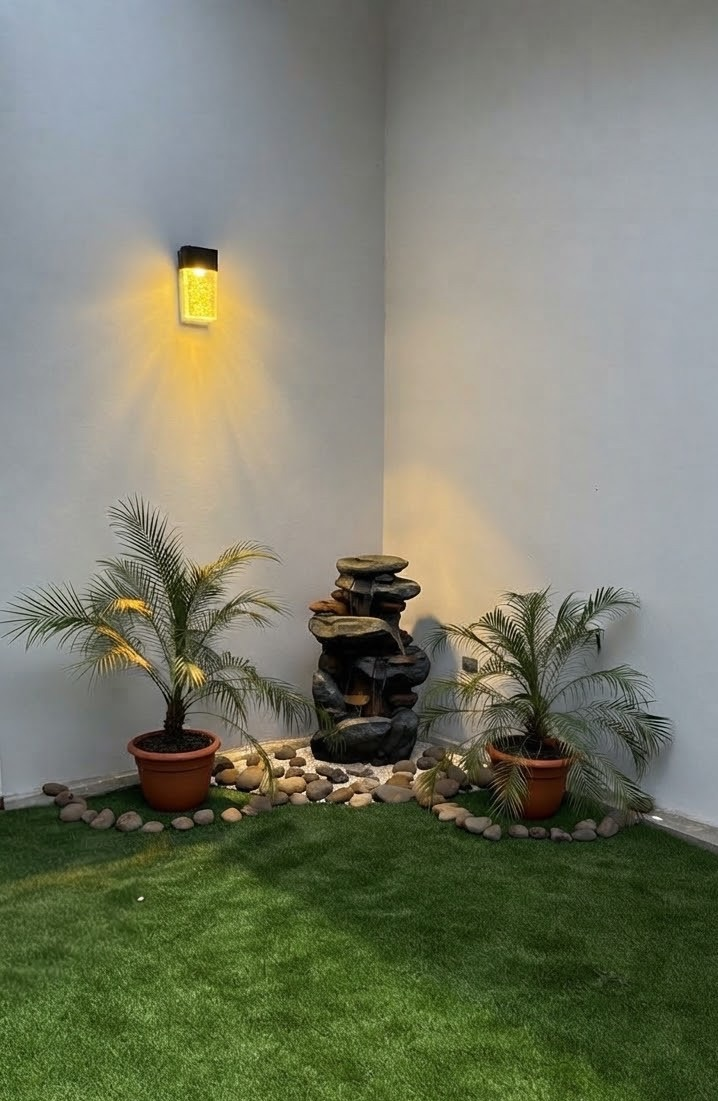
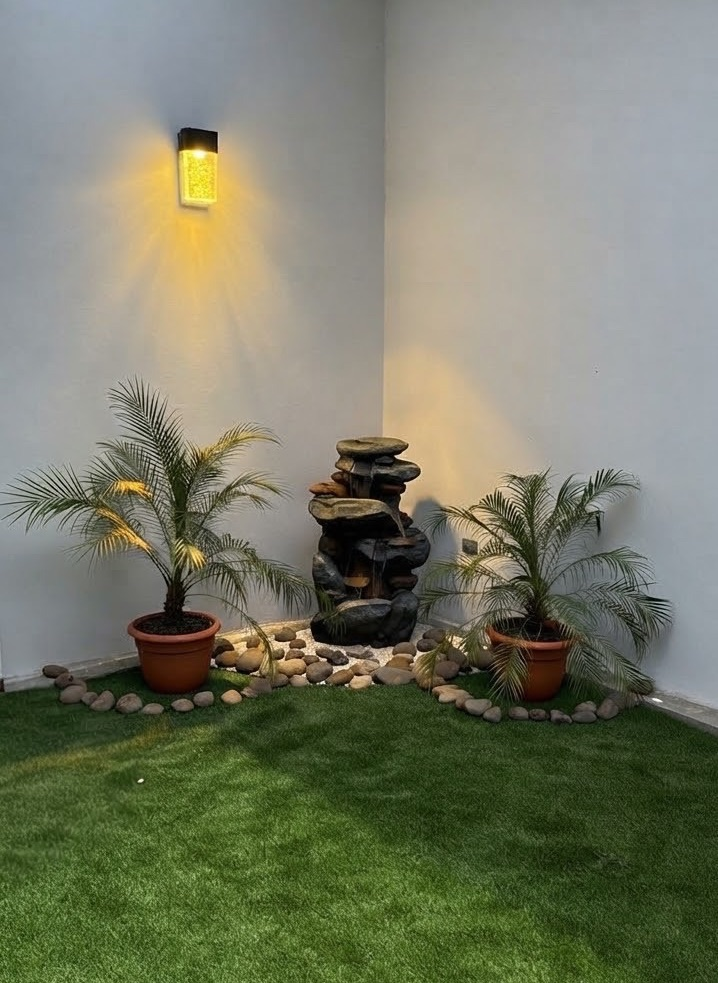
Actualiza Galeria

diff --git a/index.html b/index.html
@@ -1119,7 +1119,7 @@
             <img
               src="Images/MainPage/Property/terrace.jpeg"
               alt="Sala Terraza"
-              data-i18n-alt="gallery_exterior"
+              data-i18n-alt="gallery_terraza"
               loading="lazy"
             />
           </picture>
@@ -1216,6 +1216,18 @@
               src="Images/MainPage/Property/rancho.jpeg"
               alt="Rancho para parrillada"
               data-i18n-alt="gallery_rancho"
+              loading="lazy"
+            />
+          </picture>
+          <picture>
+            <source
+              srcset="Images/MainPage/Property/exterior.webp"
+              type="image/webp"
+            />
+            <img
+              src="Images/MainPage/Property/exterior.jpeg"
+              alt="Área Exterior"
+              data-i18n-alt="gallery_exterior"
               loading="lazy"
             />
           </picture>
